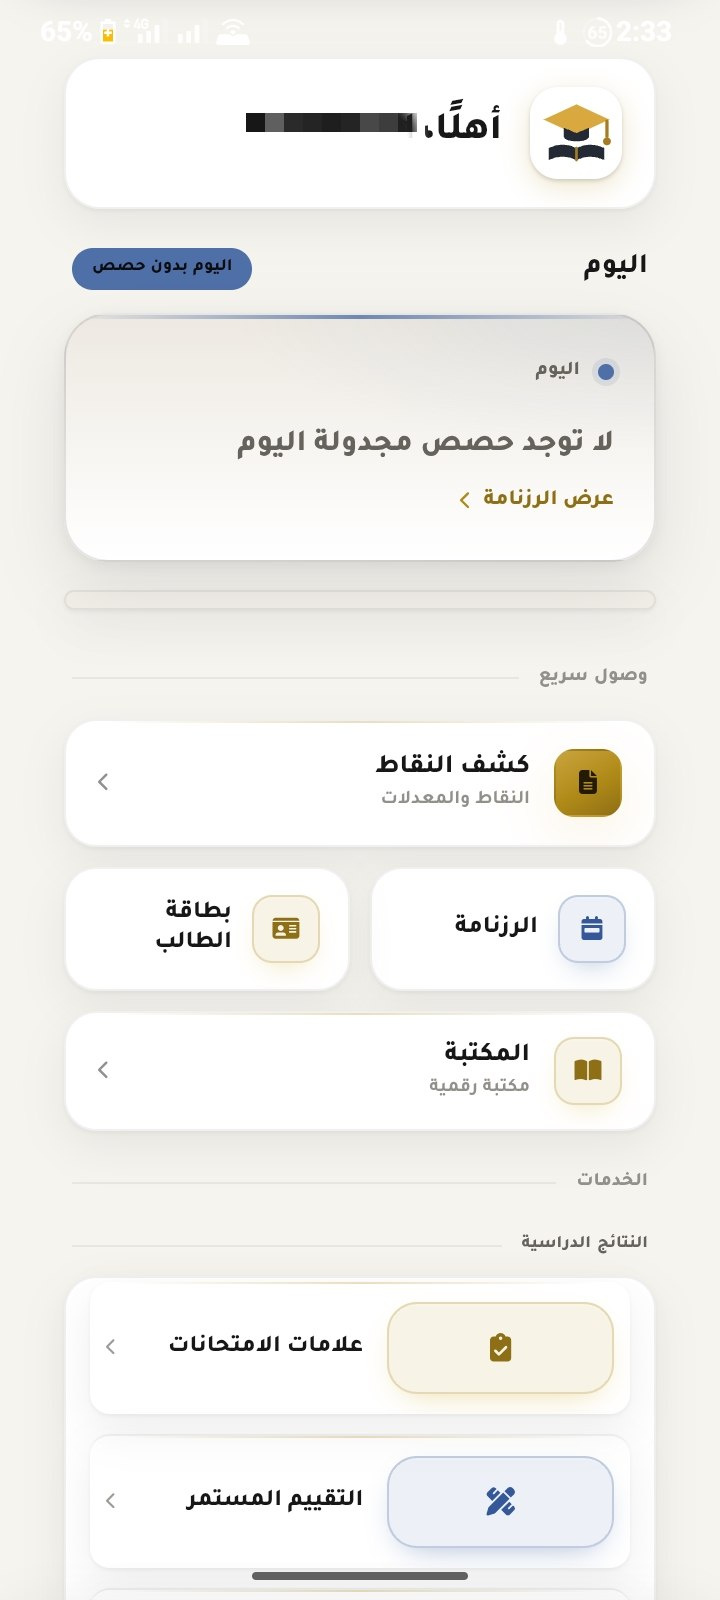
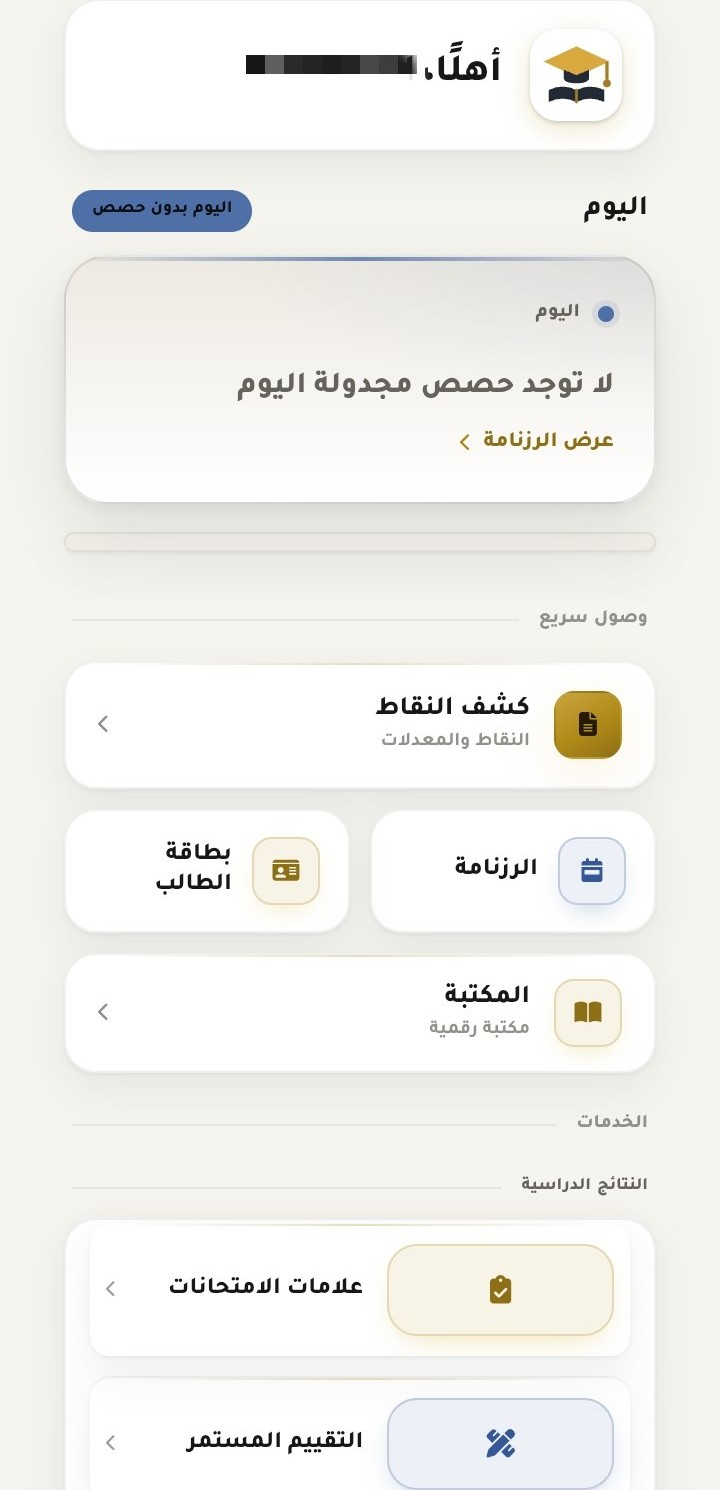
Demo card mockup with fake data + crop OS chrome from shots + Install-App button

diff --git a/download.html b/download.html
@@ -171,7 +171,7 @@
                         <span>Android <b>5.1+</b></span>
                         <span>SHA <b id="dl-sha">…</b></span>
                     </div>
-                    <a class="btn btn-green btn-big" id="dl-btn" href="#"><i class="fas fa-download"></i> Download Update</a>
+                    <a class="btn btn-green btn-big" id="dl-btn" href="#"><i class="fas fa-download"></i> Install the App</a>
                     <div class="steps">
                         <div class="step"><span class="n">1</span><span>Tap download and wait for the file to finish.</span></div>
                         <div class="step"><span class="n">2</span><span>Open the file — if asked, allow “Install unknown apps”.</span></div>
